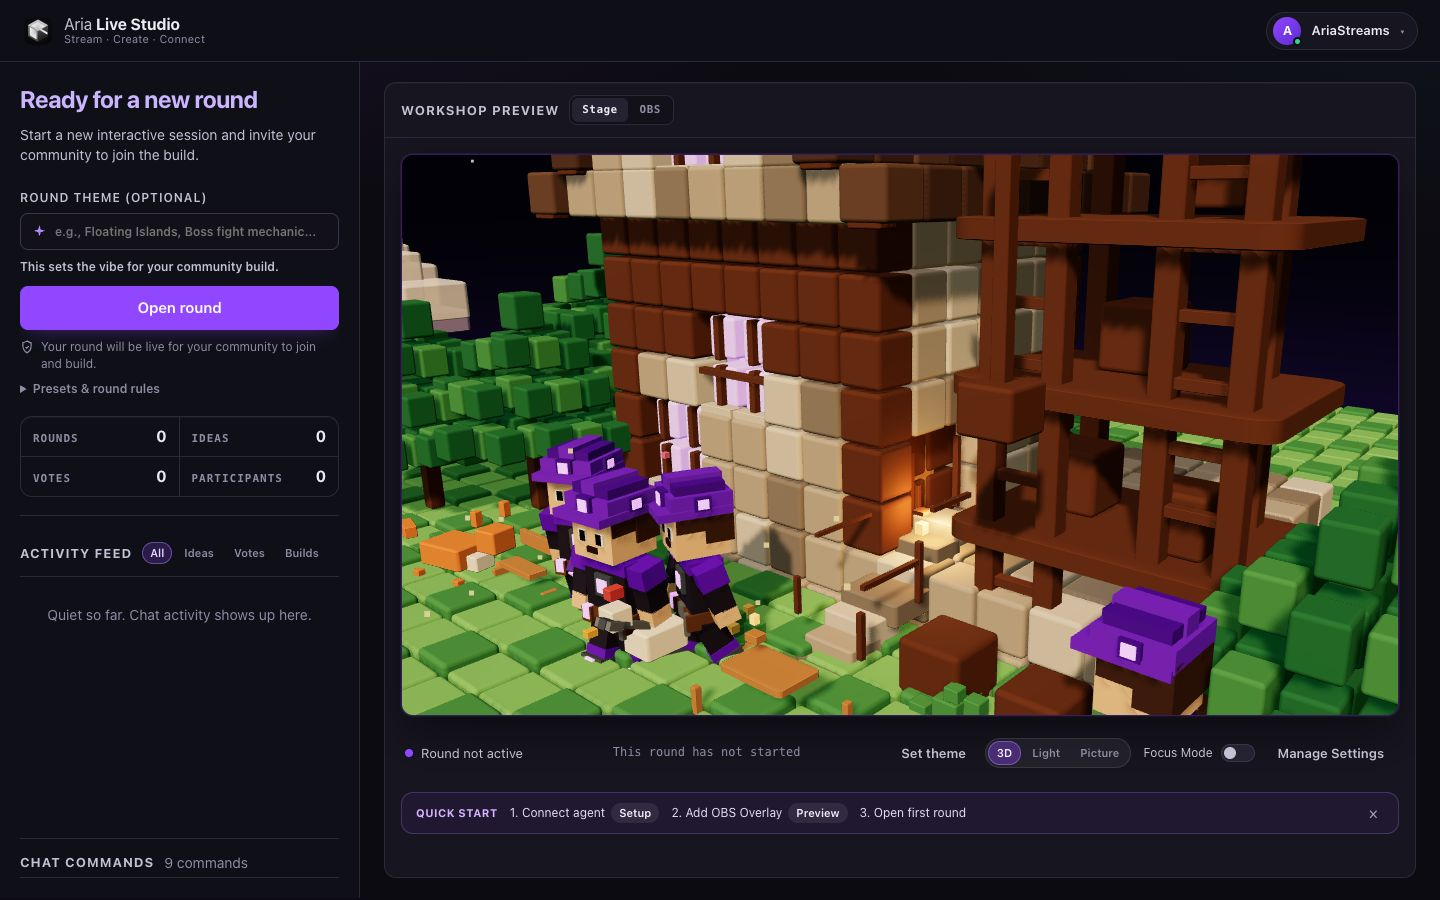
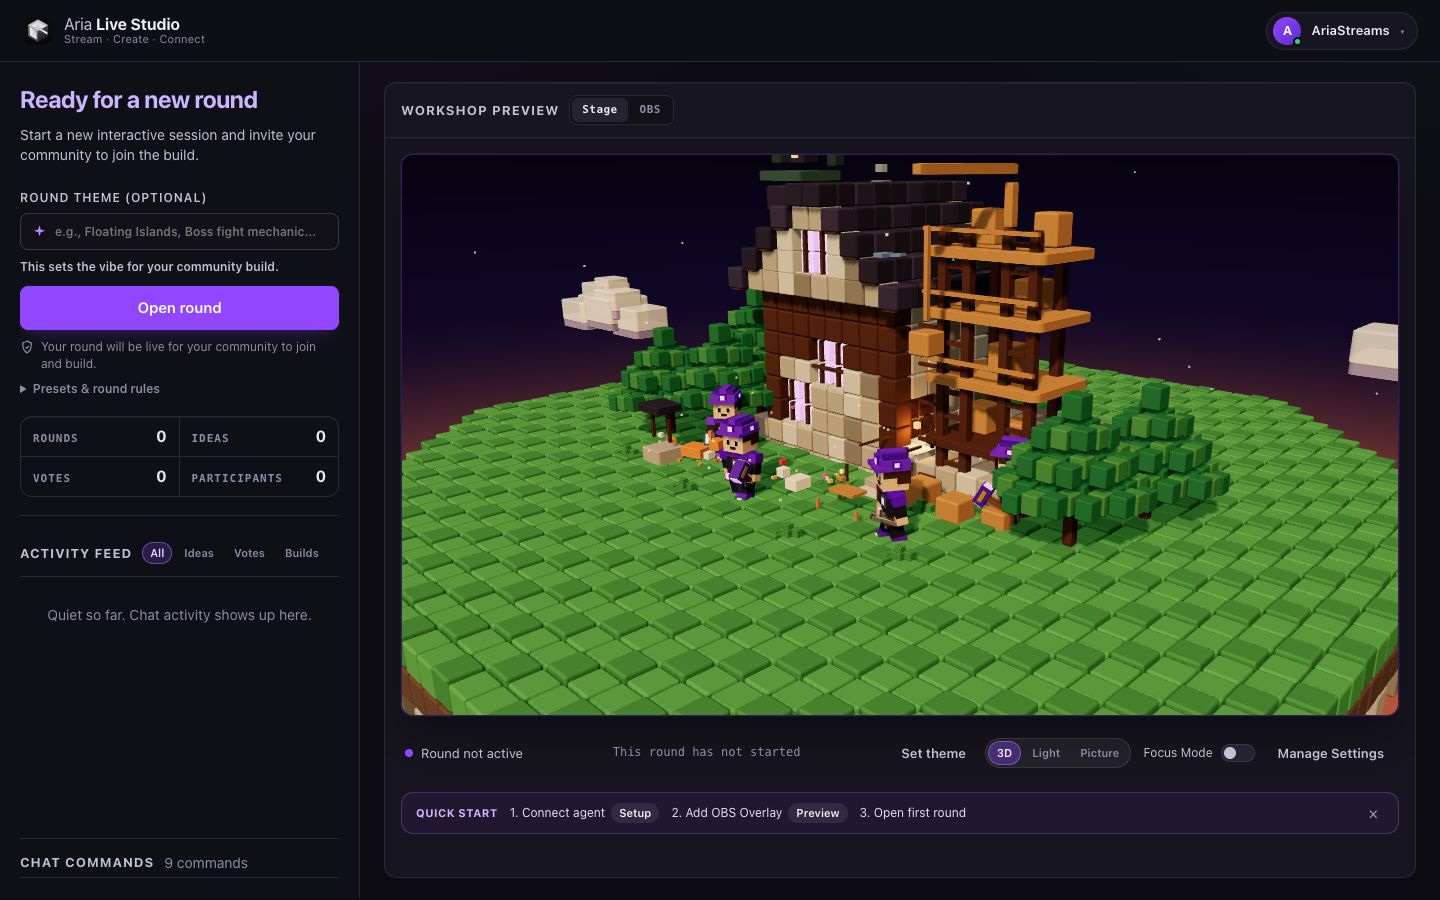
feat(web): refine camera framing, door/stair handrails, scaffolding barrels & crane, and plaza layout

diff --git a/packages/web/src/dashboard/LiveStageCanvas.tsx b/packages/web/src/dashboard/LiveStageCanvas.tsx
@@ -119,28 +119,28 @@ export function LiveStageCanvas({
     const scene = new THREE.Scene();
     scene.fog = new THREE.Fog(0x6e5a86, 48, 110);
 
-    // Closer three-quarter view so the door, yard, and crane fill the frame.
-    const camera = new THREE.PerspectiveCamera(34, width / height, 0.1, 180);
-    camera.position.set(compact ? 7.6 : 6.2, compact ? 4.4 : 3.9, compact ? 8.0 : 7.0);
+    // Balanced 3/4 isometric view framing the entire floating island, deep cliff roots, and castle.
+    const camera = new THREE.PerspectiveCamera(35, width / height, 0.1, 180);
+    camera.position.set(compact ? 17.2 : 16.0, compact ? 8.8 : 8.2, compact ? 18.0 : 16.8);
 
     const controls = new OrbitControls(camera, renderer.domElement);
     controls.enableDamping = true;
     controls.dampingFactor = 0.08;
     controls.autoRotate = false;
-    controls.minDistance = 4.5;
-    controls.maxDistance = 32;
+    controls.minDistance = 5.5;
+    controls.maxDistance = 34;
     controls.maxPolarAngle = Math.PI * 0.46;
-    controls.target.set(0.9, 1.7, 0.55);
+    controls.target.set(0.2, compact ? 0.35 : 0.25, 0.0);
 
-    // Twilight sky dome mapped to the isometric camera view (dir.y spans -0.60 at bottom to +0.05 at top)
+    // Twilight sky dome: deep indigo-purple top -> soft violet mid -> warm peach horizon
     const skyGeo = new THREE.SphereGeometry(76, 24, 16);
     const skyMat = new THREE.ShaderMaterial({
       side: THREE.BackSide,
       depthWrite: false,
       uniforms: {
-        topColor: { value: new THREE.Color(0x16112e) },
-        midColor: { value: new THREE.Color(0x4b3175) },
-        horizonColor: { value: new THREE.Color(0xf29f6d) },
+        topColor: { value: new THREE.Color(0x140f29) },
+        midColor: { value: new THREE.Color(0x452d6b) },
+        horizonColor: { value: new THREE.Color(0xd99b82) },
       },
       vertexShader: `
         varying vec3 vWorldPosition;
@@ -158,10 +158,10 @@ export function LiveStageCanvas({
         void main() {
           vec3 dir = normalize(vWorldPosition);
           float h = dir.y;
-          vec3 col = mix(horizonColor, midColor, smoothstep(-0.56, -0.22, h));
-          col = mix(col, topColor, smoothstep(-0.26, 0.04, h));
-          float sunGlow = pow(max(dot(dir, normalize(vec3(0.45, 0.2, 0.78))), 0.0), 3.0);
-          col = mix(col, vec3(0.99, 0.78, 0.52), sunGlow * 0.62);
+          vec3 col = mix(horizonColor, midColor, smoothstep(-0.42, -0.08, h));
+          col = mix(col, topColor, smoothstep(-0.12, 0.22, h));
+          float sunGlow = pow(max(dot(dir, normalize(vec3(0.58, -0.1, 0.8))), 0.0), 3.2);
+          col = mix(col, vec3(0.98, 0.80, 0.58), sunGlow * 0.52);
           gl_FragColor = vec4(col, 1.0);
         }
       `,
@@ -204,18 +204,18 @@ export function LiveStageCanvas({
     const stoneMidMat = new THREE.MeshStandardMaterial({ color: 0xb7ab9c, roughness: 0.84 });
     const stoneDarkMat = new THREE.MeshStandardMaterial({ color: 0x8d8276, roughness: 0.88 });
     const dirtMat = new THREE.MeshStandardMaterial({ color: 0x6b5040, roughness: 0.92 });
-    const grassMat = new THREE.MeshStandardMaterial({ color: 0x7ec86a, roughness: 0.78 });
-    const mossMat = new THREE.MeshStandardMaterial({ color: 0x4e9a52, roughness: 0.76 });
+    const grassMat = new THREE.MeshStandardMaterial({ color: 0x5aa656, roughness: 0.78 });
+    const mossMat = new THREE.MeshStandardMaterial({ color: 0x4c914b, roughness: 0.76 });
     const pineMat = new THREE.MeshStandardMaterial({ color: 0x2f7a45, roughness: 0.8 });
     const woodMat = new THREE.MeshStandardMaterial({ color: 0xc4894a, roughness: 0.74 });
-    const darkWoodMat = new THREE.MeshStandardMaterial({ color: 0x6b3e22, roughness: 0.84 });
-    const roofMat = new THREE.MeshStandardMaterial({ color: 0x5a4032, roughness: 0.78 });
-    const roofLightMat = new THREE.MeshStandardMaterial({ color: 0x6e5240, roughness: 0.74 });
+    const darkWoodMat = new THREE.MeshStandardMaterial({ color: 0x5c341c, roughness: 0.84 });
+    const roofMat = new THREE.MeshStandardMaterial({ color: 0x332d45, roughness: 0.74 });
+    const roofLightMat = new THREE.MeshStandardMaterial({ color: 0x433b59, roughness: 0.72 });
     const crystalMat = new THREE.MeshStandardMaterial({
       color: 0xf0dbff,
-      emissive: 0x9b6dff,
-      emissiveIntensity: 0.55,
-      roughness: 0.28,
+      emissive: 0xa855f7,
+      emissiveIntensity: 1.65,
+      roughness: 0.22,
     });
     const lanternMat = new THREE.MeshStandardMaterial({
       color: 0xffe49e,
@@ -368,23 +368,20 @@ export function LiveStageCanvas({
       mossSpecs.push({ x: vx, y: -0.95, z: vz, sx: 0.55, sy: 1.1, sz: 0.55 });
     }
 
-    // L-shaped stair leaving the side door, with a turn toward the yard.
-    for (let s = 0; s < 3; s++) {
-      pushStone(1.4, 0.08 + s * 0.14, 2.15 - s * 0.24, 1.15, 0.5, 0.85);
+    // Refined stone porch landing + 5-step L-shaped stair + twin timber handrails
+    for (let s = 0; s < 5; s++) {
+      pushStone(1.42, 0.06 + s * 0.14, 2.38 - s * 0.26, 1.24, 0.42, 0.68);
     }
-    pushStone(1.45, 0.5, 1.42, 1.35, 0.45, 1.05);
-    for (let s = 0; s < 3; s++) {
-      pushStone(1.42, 0.62 + s * 0.14, 1.05 - s * 0.26, 1.05, 0.5, 0.8);
-    }
+    pushStone(1.42, 0.76, 0.92, 1.48, 0.42, 1.25);
+    pushStone(1.12, 0.76, 0.28, 1.15, 0.42, 1.25);
     timberSpecs.push(
-      { x: 1.82, y: 0.55, z: 2.15, sx: 0.12, sy: 0.85, sz: 0.12 },
-      { x: 1.82, y: 0.85, z: 1.42, sx: 0.12, sy: 1.15, sz: 0.12 },
-      { x: 1.82, y: 1.15, z: 0.55, sx: 0.12, sy: 1.05, sz: 0.12 },
-      { x: 1.82, y: 0.95, z: 1.78, sx: 0.1, sy: 0.1, sz: 1.5 },
-      { x: 1.82, y: 1.35, z: 0.98, sx: 0.1, sy: 0.1, sz: 1.15 },
-      { x: 1.12, y: 0.7, z: 2.15, sx: 0.1, sy: 0.7, sz: 0.1 },
-      { x: 1.12, y: 1.05, z: 0.55, sx: 0.1, sy: 0.85, sz: 0.1 },
-      { x: 1.12, y: 1.15, z: 1.35, sx: 0.08, sy: 0.08, sz: 2.4 },
+      { x: 1.88, y: 0.48, z: 2.38, sx: 0.12, sy: 0.85, sz: 0.12 },
+      { x: 1.88, y: 0.88, z: 1.62, sx: 0.12, sy: 1.05, sz: 0.12 },
+      { x: 1.88, y: 1.18, z: 0.88, sx: 0.12, sy: 1.0, sz: 0.12 },
+      { x: 1.88, y: 1.05, z: 1.62, sx: 0.1, sy: 0.1, sz: 1.75 },
+      { x: 1.04, y: 0.62, z: 2.38, sx: 0.1, sy: 0.75, sz: 0.1 },
+      { x: 1.04, y: 1.08, z: 0.88, sx: 0.1, sy: 0.9, sz: 0.1 },
+      { x: 1.04, y: 1.08, z: 1.62, sx: 0.09, sy: 0.09, sz: 1.75 },
     );
 
     // 3. Main Two-Story Gabled Manor Hall (fine 0.5u stone masonry, dark wood door, arched purple windows)
@@ -422,16 +419,17 @@ export function LiveStageCanvas({
         }
       }
     }
-    // Side door leaf and the small lantern beside it.
-    scaffSpecs.push({ x: 0.92, y: 1.22, z: 0.25, sx: 0.16, sy: 1.35, sz: 0.72 });
+    // Arched stone door frame, recessed plank door leaf, and hanging warm porch lantern
+    pushStone(1.06, 2.02, 0.25, 0.35, 0.36, 1.35);
+    scaffSpecs.push({ x: 0.92, y: 1.32, z: 0.25, sx: 0.16, sy: 1.42, sz: 0.78 });
     timberSpecs.push(
-      { x: 1.08, y: 1.22, z: -0.12, sx: 0.14, sy: 1.55, sz: 0.12 },
-      { x: 1.08, y: 1.22, z: 0.62, sx: 0.14, sy: 1.55, sz: 0.12 },
-      { x: 1.08, y: 1.9, z: 0.25, sx: 0.14, sy: 0.12, sz: 0.9 },
-      { x: 1.38, y: 0.72, z: 0.82, sx: 0.1, sy: 0.55, sz: 0.1 },
-      { x: 1.38, y: 1.12, z: 0.82, sx: 0.28, sy: 0.08, sz: 0.28 },
+      { x: 1.08, y: 1.32, z: -0.16, sx: 0.16, sy: 1.55, sz: 0.14 },
+      { x: 1.08, y: 1.32, z: 0.66, sx: 0.16, sy: 1.55, sz: 0.14 },
+      { x: 1.08, y: 2.02, z: 0.25, sx: 0.16, sy: 0.14, sz: 0.98 },
+      { x: 1.38, y: 1.72, z: 0.92, sx: 0.42, sy: 0.1, sz: 0.1 },
+      { x: 1.52, y: 1.56, z: 0.92, sx: 0.08, sy: 0.28, sz: 0.08 },
     );
-    lanternSpecs.push({ x: 1.38, y: 0.96, z: 0.82, sx: 0.2, sy: 0.24, sz: 0.2 });
+    lanternSpecs.push({ x: 1.52, y: 1.34, z: 0.92, sx: 0.24, sy: 0.28, sz: 0.24 });
     timberSpecs.push(
       { x: -0.75, y: 2.15, z: 1.12, sx: 3.4, sy: 0.14, sz: 0.18 },
       { x: -0.75, y: 2.85, z: 1.12, sx: 3.4, sy: 0.14, sz: 0.18 },
@@ -487,21 +485,36 @@ export function LiveStageCanvas({
       { x: 2.55, y: 2.55, z: -0.15, sx: 0.42, sy: 11.2, sz: 0.42 },
       { x: 3.95, y: 2.55, z: -0.15, sx: 0.42, sy: 11.2, sz: 0.42 },
       { x: 3.25, y: 1.25, z: 0.45, sx: 5.4, sy: 0.38, sz: 3.6 },
+    );
+    // Multi-tier right scaffolding platforms, cross-rails, barrels, crane arm & pulley block
+    scaffSpecs.push(
       { x: 3.25, y: 2.45, z: 0.45, sx: 5.4, sy: 0.38, sz: 3.6 },
       { x: 3.25, y: 3.65, z: 0.45, sx: 5.4, sy: 0.38, sz: 3.6 },
       { x: 3.25, y: 4.75, z: 0.45, sx: 5.4, sy: 0.42, sz: 3.6 },
+      // Safety guardrails & ladder rungs on front face
+      { x: 3.25, y: 5.15, z: 1.35, sx: 5.2, sy: 0.16, sz: 0.16 },
+      { x: 3.25, y: 4.05, z: 1.35, sx: 5.2, sy: 0.16, sz: 0.16 },
+      { x: 3.25, y: 2.85, z: 1.35, sx: 5.2, sy: 0.16, sz: 0.16 },
+      // Barrels & supply crates on scaffolding platforms
       { x: 2.7, y: 1.62, z: 0.35, sx: 1.15, sy: 1.15, sz: 1.15 },
       { x: 3.75, y: 1.58, z: 0.7, sx: 1.05, sy: 1.05, sz: 1.05 },
       { x: 3.15, y: 2.82, z: 0.25, sx: 1.15, sy: 1.15, sz: 1.15 },
       { x: 3.7, y: 4.05, z: 0.3, sx: 1.1, sy: 1.1, sz: 1.1 },
-      { x: 2.65, y: 5.15, z: 0.2, sx: 1.05, sy: 1.05, sz: 1.05 },
-      { x: 3.25, y: 5.15, z: 1.55, sx: 0.42, sy: 0.42, sz: 5.2 },
-      { x: 3.25, y: 3.55, z: 2.45, sx: 0.22, sy: 3.4, sz: 0.22 },
-      { x: 3.25, y: 2.65, z: 2.45, sx: 0.85, sy: 0.7, sz: 0.85 },
-      { x: 2.45, y: 0.38, z: 1.85, sx: 1.2, sy: 1.15, sz: 1.2 },
-      { x: 3.35, y: 0.34, z: 1.95, sx: 1.1, sy: 1.05, sz: 1.1 },
+      { x: 2.65, y: 5.15, z: 0.2, sx: 1.15, sy: 1.35, sz: 1.15 },
+      { x: 3.9, y: 5.15, z: 0.1, sx: 1.05, sy: 1.25, sz: 1.05 },
+      // Crane boom + suspended pulley hook
+      { x: 3.25, y: 5.55, z: 0.45, sx: 0.38, sy: 1.6, sz: 0.38 },
+      { x: 3.25, y: 6.15, z: 1.65, sx: 0.38, sy: 0.38, sz: 5.4 },
+      { x: 3.25, y: 4.55, z: 2.65, sx: 0.18, sy: 3.2, sz: 0.18 },
+      { x: 3.25, y: 3.45, z: 2.65, sx: 0.92, sy: 0.82, sz: 0.92 },
+      // Ground-level barrels & crates beside the scaffolding
+      { x: 2.45, y: 0.38, z: 1.85, sx: 1.2, sy: 1.25, sz: 1.2 },
+      { x: 3.35, y: 0.34, z: 1.95, sx: 1.1, sy: 1.15, sz: 1.1 },
       { x: 4.15, y: 0.3, z: 1.7, sx: 1.05, sy: 1.0, sz: 1.05 },
     );
+    for (let r = 0; r < 6; r++) {
+      timberSpecs.push({ x: 2.15, y: 0.55 + r * 0.72, z: 1.35, sx: 0.85, sy: 0.14, sz: 0.14 });
+    }
 
     // 7. Fine-Detail Clustered Sub-Voxel Pine Trees, Shrubs, Cobblestones & Flowers
     const trunkSpecs: VoxelSpec[] = [
@@ -566,6 +579,10 @@ export function LiveStageCanvas({
       [0.55, 2.35],
       [-3.3, 3.1],
       [2.7, 2.15],
+      [-1.4, 4.4],
+      [1.8, 4.5],
+      [-4.1, 4.0],
+      [3.8, 3.9],
     ] as const) {
       addBush(sx, sz, 0.85);
     }
@@ -574,9 +591,23 @@ export function LiveStageCanvas({
       [-0.75, 2.15],
       [-0.75, 2.6],
       [-0.75, 3.05],
+      [-0.65, 3.65],
+      [-0.15, 4.05],
+      [0.55, 3.85],
+      [1.25, 3.35],
+      [1.38, 2.8],
+      [-1.45, 3.85],
+      [-2.15, 3.7],
     ] as const) {
-      stoneLightSpecs.push({ x: cx, y: 0.16, z: cz, sx: 0.55, sy: 0.12, sz: 0.42 });
+      stoneLightSpecs.push({ x: cx, y: 0.16, z: cz, sx: 0.62, sy: 0.14, sz: 0.48 });
     }
+    // Left-foreground stone wishing well + wooden canopy
+    stoneMidSpecs.push({ x: -3.25, y: 0.36, z: 3.65, sx: 1.35, sy: 0.72, sz: 1.35 });
+    timberSpecs.push(
+      { x: -3.55, y: 0.92, z: 3.65, sx: 0.14, sy: 1.05, sz: 0.14 },
+      { x: -2.95, y: 0.92, z: 3.65, sx: 0.14, sy: 1.05, sz: 0.14 },
+    );
+    roofDarkSpecs.push({ x: -3.25, y: 1.38, z: 3.65, sx: 1.6, sy: 0.36, sz: 1.3 });
     scaffSpecs.push(
       { x: -2.35, y: 0.2, z: 2.25, sx: 1.35, sy: 0.16, sz: 0.6 },
       { x: 0.55, y: 0.2, z: 2.4, sx: 1.2, sy: 0.16, sz: 0.55 },
@@ -722,10 +753,10 @@ export function LiveStageCanvas({
         rightArm,
       });
     };
-    addVillager(-1.15, 0.08, 2.55, 0xc47a4a, 0x6b3e22, 0.4, 0.2);
-    addVillager(-0.2, 0.08, 3.15, 0x4e9a52, 0x8d8276, 0.1, 1.4);
-    addVillager(0.45, 0.08, 2.85, 0xd9d0c4, 0x5a4032, -0.4, 2.6);
-    addVillager(4.6, 0.08, 2.7, 0xc4894a, 0xf5b942, -1.6, 3.8);
+    addVillager(-0.45, 0.08, 3.65, 0xc47a4a, 0x6b3e22, 0.25, 0.2);
+    addVillager(2.85, 0.08, 3.35, 0x4e9a52, 0x8d8276, -0.55, 1.4);
+    addVillager(-2.45, 0.08, 2.75, 0xd9d0c4, 0x5a4032, 0.65, 2.6);
+    addVillager(4.45, 0.08, 1.55, 0xc4894a, 0xf5b942, -1.25, 3.8);
 
     // Upgrade villagers with the 1:1 Aria Voxel Engineer GLB model (with articulated joints & tools)
     const toolRoles: Array<"hammer" | "wrench" | "tablet" | "hammer"> = ["hammer", "wrench", "tablet", "hammer"];
@@ -934,15 +965,15 @@ export function LiveStageCanvas({
     bgIslands.add(buildVoxelInstances(voxelGeo, cloudShadeMat, cloudBotSpecs, false, false));
     bgIslands.add(buildVoxelInstances(voxelGeo, cloudLightMat, cloudTopSpecs, false, false));
 
-    // Distant upper-left atmospheric mini floating island (silhouette depth from 2D reference)
-    const farGrassMat = new THREE.MeshStandardMaterial({ color: 0x456b5a, roughness: 0.9 });
-    const farStoneMat = new THREE.MeshStandardMaterial({ color: 0x3b3354, roughness: 0.92 });
-    const farPineMat = new THREE.MeshStandardMaterial({ color: 0x2f4f46, roughness: 0.9 });
+    // Distant upper-left atmospheric mini floating island (offset far left-back so it never blocks roof)
+    const farGrassMat = new THREE.MeshStandardMaterial({ color: 0x3e5e56, roughness: 0.92 });
+    const farStoneMat = new THREE.MeshStandardMaterial({ color: 0x352c4b, roughness: 0.94 });
+    const farPineMat = new THREE.MeshStandardMaterial({ color: 0x2c4742, roughness: 0.92 });
     bgIslands.add(
       buildVoxelInstances(
         voxelGeo,
         farGrassMat,
-        [{ x: -13.5, y: 4.5, z: -15.5, sx: 5.5, sy: 0.9, sz: 5.2 }],
+        [{ x: -16.5, y: 5.8, z: -12.0, sx: 5.5, sy: 0.9, sz: 5.2 }],
         false,
         false,
       ),
@@ -952,9 +983,9 @@ export function LiveStageCanvas({
         voxelGeo,
         farStoneMat,
         [
-          { x: -13.5, y: 3.6, z: -15.5, sx: 4.6, sy: 2.2, sz: 4.4 },
-          { x: -13.5, y: 2.2, z: -15.5, sx: 2.8, sy: 2.0, sz: 2.8 },
-          { x: -13.0, y: 5.4, z: -15.3, sx: 1.8, sy: 1.8, sz: 1.8 },
+          { x: -16.5, y: 4.9, z: -12.0, sx: 4.6, sy: 2.2, sz: 4.4 },
+          { x: -16.5, y: 3.5, z: -12.0, sx: 2.8, sy: 2.0, sz: 2.8 },
+          { x: -16.0, y: 6.7, z: -11.8, sx: 1.8, sy: 1.8, sz: 1.8 },
         ],
         false,
         false,
@@ -965,8 +996,8 @@ export function LiveStageCanvas({
         voxelGeo,
         farPineMat,
         [
-          { x: -14.8, y: 5.5, z: -15.6, sx: 1.3, sy: 2.2, sz: 1.3 },
-          { x: -12.1, y: 5.3, z: -16.2, sx: 1.1, sy: 1.8, sz: 1.1 },
+          { x: -17.8, y: 6.8, z: -12.1, sx: 1.3, sy: 2.2, sz: 1.3 },
+          { x: -15.1, y: 6.6, z: -12.7, sx: 1.1, sy: 1.8, sz: 1.1 },
         ],
         false,
         false,
@@ -976,7 +1007,7 @@ export function LiveStageCanvas({
       buildVoxelInstances(
         voxelGeo,
         lanternMat,
-        [{ x: -12.9, y: 5.3, z: -14.7, sx: 0.45, sy: 0.45, sz: 0.45 }],
+        [{ x: -15.9, y: 6.6, z: -11.2, sx: 0.45, sy: 0.45, sz: 0.45 }],
         false,
         false,
       ),
